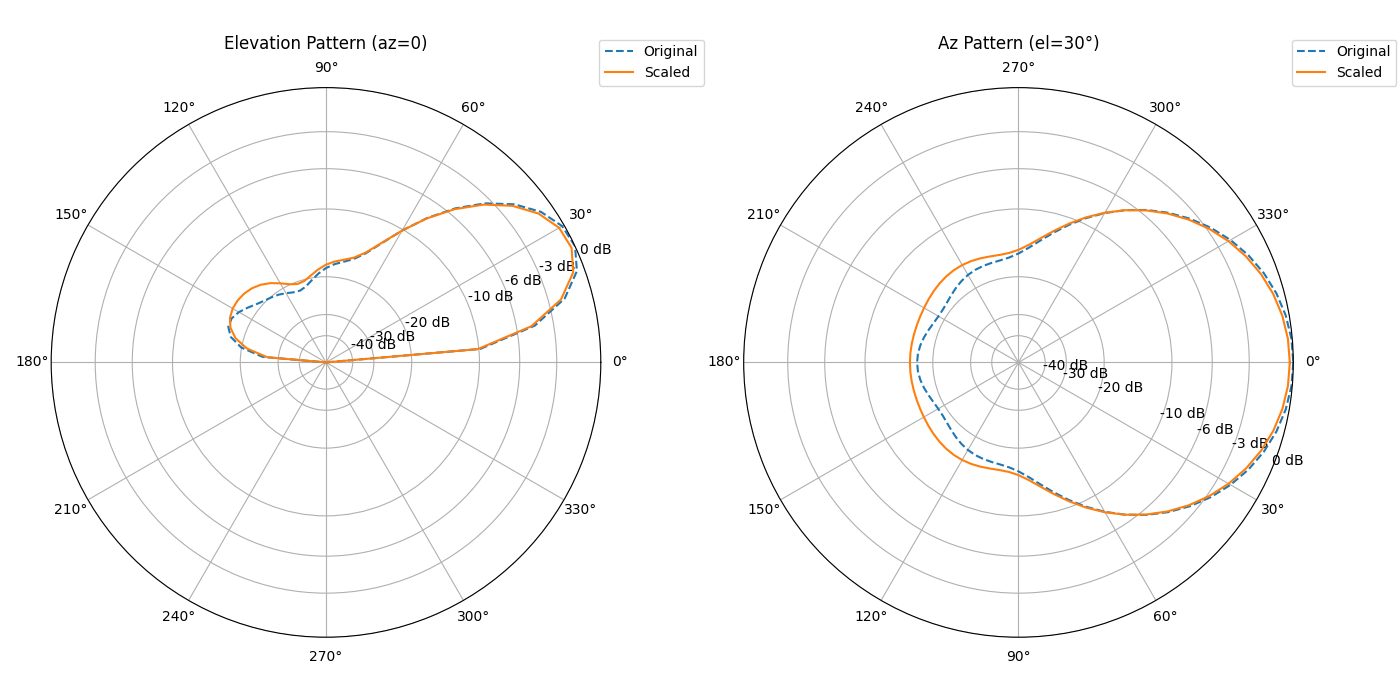
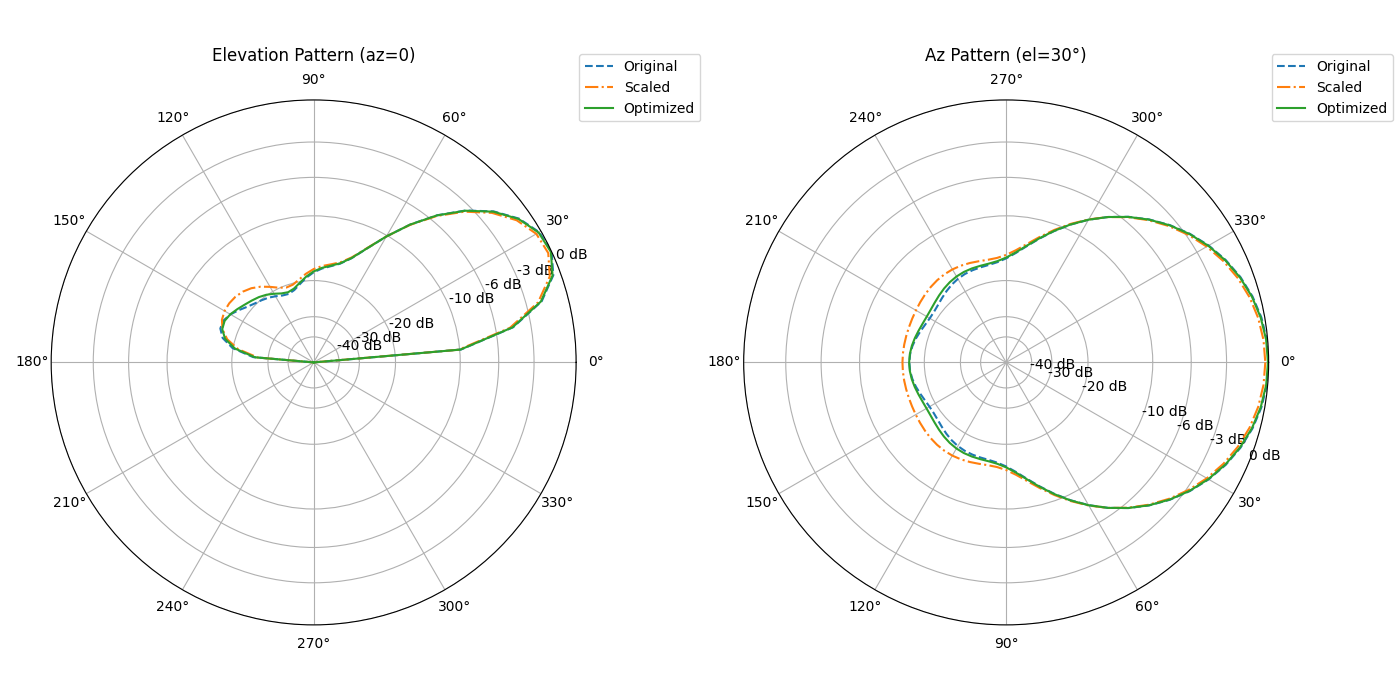
Clean and regenerate report after fixing plot errors

diff --git a/output/2_el_yagi_15m/2_el_yagi_15m.md b/output/2_el_yagi_15m/2_el_yagi_15m.md
@@ -84,86 +84,6 @@ Parameters: frequency = 21.0 MHz; height = 7.14 m (~0.5λ); ground = average; se
 
 ![Front-to-Back Ratio vs Detune for Each Spacing Fraction](fb_vs_detune.png)
 
-## Criticality Polar Patterns (0.050λ)
-
-Parameters: frequency offsets = ±25, ±50, ±100 kHz; reflector detune optimized for max F/B; spacing = 0.050λ
-
-![Criticality Polar Patterns (0.050λ)](criticality_50pl.png)
-
-## Criticality Data (0.050λ)
-
-Parameters: spacing = 0.050λ; detune = 5.00%
-
-| Offset (kHz) | Forward Gain (dBi) | F/B (dB) |
-| --- | --- | --- |
-| -100 | 11.06 | 17.36 |
-| -50 | 11.06 | 17.30 |
-| -25 | 11.07 | 17.27 |
-| 0 | 11.07 | 17.24 |
-| 25 | 11.07 | 17.21 |
-| 50 | 11.08 | 17.18 |
-| 100 | 11.08 | 17.11 |
-
-## Criticality Polar Patterns (0.075λ)
-
-Parameters: frequency offsets = ±25, ±50, ±100 kHz; reflector detune optimized for max F/B; spacing = 0.075λ
-
-![Criticality Polar Patterns (0.075λ)](criticality_75pl.png)
-
-## Criticality Data (0.075λ)
-
-Parameters: spacing = 0.075λ; detune = 5.00%
-
-| Offset (kHz) | Forward Gain (dBi) | F/B (dB) |
-| --- | --- | --- |
-| -100 | 11.08 | 17.17 |
-| -50 | 11.08 | 17.13 |
-| -25 | 11.09 | 17.11 |
-| 0 | 11.09 | 17.10 |
-| 25 | 11.09 | 17.07 |
-| 50 | 11.09 | 17.05 |
-| 100 | 11.10 | 17.01 |
-
-## Criticality Polar Patterns (0.100λ)
-
-Parameters: frequency offsets = ±25, ±50, ±100 kHz; reflector detune optimized for max F/B; spacing = 0.100λ
-
-![Criticality Polar Patterns (0.100λ)](criticality_100pl.png)
-
-## Criticality Data (0.100λ)
-
-Parameters: spacing = 0.100λ; detune = 5.00%
-
-| Offset (kHz) | Forward Gain (dBi) | F/B (dB) |
-| --- | --- | --- |
-| -100 | 11.06 | 17.17 |
-| -50 | 11.06 | 17.14 |
-| -25 | 11.07 | 17.13 |
-| 0 | 11.07 | 17.11 |
-| 25 | 11.07 | 17.10 |
-| 50 | 11.07 | 17.08 |
-| 100 | 11.08 | 17.05 |
-
-## Criticality Polar Patterns (0.150λ)
-
-Parameters: frequency offsets = ±25, ±50, ±100 kHz; reflector detune optimized for max F/B; spacing = 0.150λ
-
-![Criticality Polar Patterns (0.150λ)](criticality_150pl.png)
-
-## Criticality Data (0.150λ)
-
-Parameters: spacing = 0.150λ; detune = 5.00%
-
-| Offset (kHz) | Forward Gain (dBi) | F/B (dB) |
-| --- | --- | --- |
-| -100 | 10.97 | 17.24 |
-| -50 | 10.97 | 17.23 |
-| -25 | 10.98 | 17.23 |
-| 0 | 10.98 | 17.22 |
-| 25 | 10.98 | 17.21 |
-| 50 | 10.98 | 17.20 |
-| 100 | 10.99 | 17.18 |
-
 ## VSWR vs Frequency (All Spacings)
 
 Parameters: Spacing fractions = 0.05-0.40 λ; reflector detune set for max F/B at 21 MHz; height = 0.5 λ; 50 Ω reference
@@ -496,12 +416,30 @@ Parameters: Lengths and impedances for original unscaled element lengths
 | 0.075 | 6.793 | 7.132 | 14.2 | -20.2 |
 | 0.100 | 6.793 | 7.132 | 23.8 | -10.8 |
 
-## Optimised Detune with X≤3Ω
+## Optimised Detune (Scale fixed, |X|≤5 Ω)
 
-Parameters: Scaled driven element (X≈0), reflector detune tweaked ±2 % to maximise F/B while |X|≤3 Ω.
+Parameters: Detune swept ±2% around baseline with scale fixed at zero-reactance value; forward/back cut uses az_step=180°.
 
 | Spacing λ | Scale | Detune % | R (Ω) | X (Ω) | Gain (dBi) | F/B (dB) |
 | --- | --- | --- | --- | --- | --- | --- |
-| 0.050 | 1.0171 | 4.50 | 13.5 | -1.9 | 10.34 | 10.37 |
-| 0.075 | 1.0111 | 4.50 | 18.6 | -1.9 | 10.82 | 14.94 |
+| 0.050 | 1.0171 | 4.00 | 10.7 | -4.6 | 10.64 | 12.82 |
+| 0.075 | 1.0111 | 4.00 | 15.3 | -4.5 | 11.04 | 16.81 |
 | 0.100 | 1.0063 | 4.50 | 25.2 | -1.5 | 11.02 | 17.04 |
+
+## Pattern Comparison Orig vs Scaled vs Opt (0.050λ)
+
+Parameters: Optimised scale=1.0171, detune=4.00%
+
+![Pattern Comparison Orig vs Scaled vs Opt (0.050λ)](pattern_compare_50pl.png)
+
+## Pattern Comparison Orig vs Scaled vs Opt (0.075λ)
+
+Parameters: Optimised scale=1.0111, detune=4.00%
+
+![Pattern Comparison Orig vs Scaled vs Opt (0.075λ)](pattern_compare_75pl.png)
+
+## Pattern Comparison Orig vs Scaled vs Opt (0.100λ)
+
+Parameters: Optimised scale=1.0063, detune=4.50%
+
+![Pattern Comparison Orig vs Scaled vs Opt (0.100λ)](pattern_compare_100pl.png)
